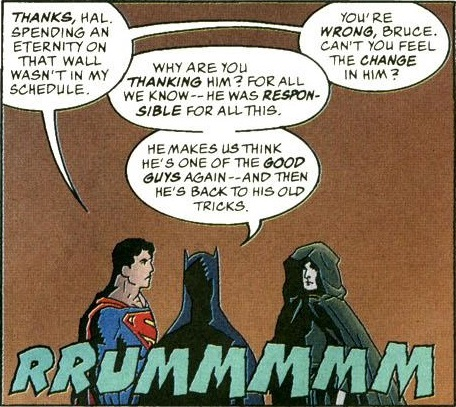
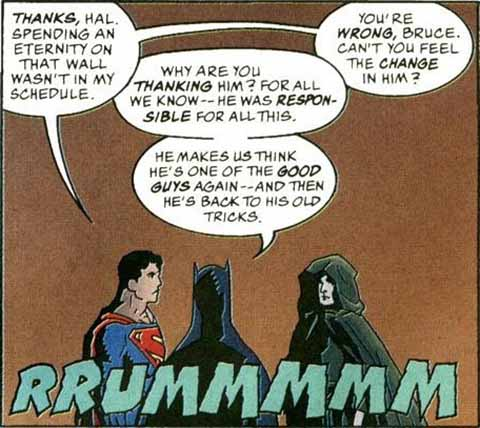
增加高清版本

diff --git a/scripts/high_resolution.py b/scripts/high_resolution.py
@@ -1,0 +1,12 @@
+# coding = utf-8
+
+"""根据md生成高清版本"""
+
+import sys
+
+file_path = sys.argv[1]
+with open(file_path, "r", encoding="utf8") as f:
+    con = f.read()
+con = con.replace("comic/", "comic-origin/")
+with open(file_path.replace(".md", "-高清.md"), "w", encoding="utf8") as f:
+    f.write(con)
